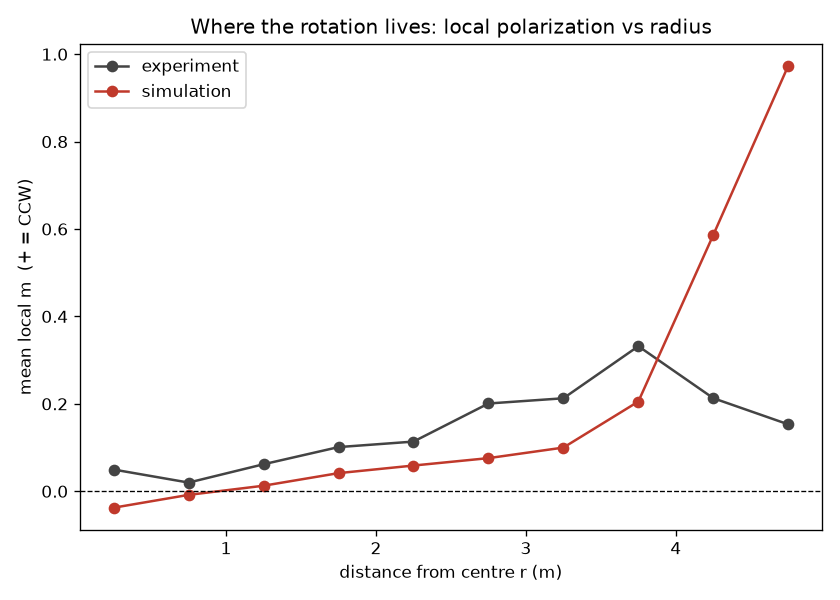
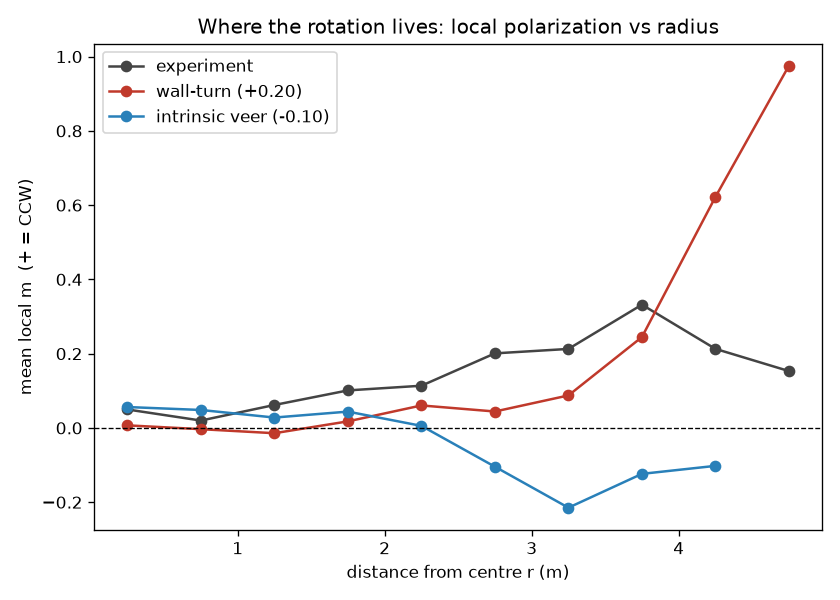
intrinsic veer model: trying to reproduce the field, and why a minimal model can't
Add a second minimal mechanism — a constant free-space left veer
(config.free_curvature, applied every step) with symmetric walls — and compare
its spatial field to the wall-turn model and the experiment.

- config/roaming/experiment: free_curvature knob; _make_roamer picks the mode
- analysis: radial_profile_plot and field_comparison_plot take N labelled panels
- validate_against_data renders experiment vs wall-turn vs intrinsic (field map +
  radial profile); README gets the per-ring tables and the three-way reading

Finding: neither minimal model reproduces the experiment's coherent, disk-filling
CCW. Wall-turn matches M̄ but is a rim spike; intrinsic veer spreads into the
interior but comes out CW (M̄ approx -0.10) — in open space a left veer is CCW
(tested: lone walker, large arena, m>0), but confinement lets the inward wall
response flip the sign. The net sign is set by veer x wall, not the veer alone.
Consistent with the paper: the effect rests on a genuine individual bias a
one-knob model does not casually recover.

diff --git a/scripts/validate_against_data.py b/scripts/validate_against_data.py
@@ -66,14 +66,15 @@ def experimental_field(speed_eps: float) -> list[tuple[float, float, float]]:
     return samples
 
 
-def simulated_field(biased_fraction: float, seeds: range) -> list[tuple[float, float, float]]:
+def model_field(cfg: ArenaConfig, seeds: range) -> tuple[list[tuple[float, float, float]], float]:
+    """Pooled (x, y, m_i) field samples and M̄ for a given model config."""
     samples: list[tuple[float, float, float]] = []
+    mbars: list[float] = []
     for s in seeds:
-        res = run_arena(
-            s, ArenaConfig(n_agents=24, biased_fraction=biased_fraction), record_field=True
-        )
+        res = run_arena(s, cfg, record_field=True)
         samples.extend(res.field_samples)
-    return samples
+        mbars.append(res.m_bar)
+    return samples, sum(mbars) / len(mbars)
 
 
 def main() -> None:
@@ -101,12 +102,27 @@ def main() -> None:
     plt.close(fig)
     print(f"wrote {OUT / 'experiment_vs_sim.png'}")
 
+    # Spatial structure: experiment vs the two minimal models.
+    # - wall-turn: a share of agents turn left at the wall (matches M̄ by construction).
+    # - intrinsic: every agent has a faithful constant left veer (the paper's left bias),
+    #   walls symmetric. We report what it actually does, not a tuned match.
     exp_field = experimental_field(ArenaConfig().speed_eps)
-    sim_field = simulated_field(biased_fraction=frac, seeds=range(10))
-    field_comparison_plot(
-        exp_field, sim_field, radius=5.0, out_path=OUT / "polarization_field.png", min_count=20
+    wall_field, wall_mbar = model_field(
+        ArenaConfig(n_agents=24, biased_fraction=0.35), seeds=range(10)
     )
-    radial_profile_plot(exp_field, sim_field, radius=5.0, out_path=OUT / "radial_profile.png")
+    intr_field, intr_mbar = model_field(
+        ArenaConfig(n_agents=24, free_curvature=0.10), seeds=range(10)
+    )
+    print(f"wall-turn model M̄ (35% left-turners) = {wall_mbar:+.3f}")
+    print(f"intrinsic-veer model M̄ (left curvature 0.10 rad/step) = {intr_mbar:+.3f}")
+
+    panels = [
+        ("experiment", exp_field),
+        (f"wall-turn ({wall_mbar:+.2f})", wall_field),
+        (f"intrinsic veer ({intr_mbar:+.2f})", intr_field),
+    ]
+    field_comparison_plot(panels, radius=5.0, out_path=OUT / "polarization_field.png", min_count=20)
+    radial_profile_plot(panels, radius=5.0, out_path=OUT / "radial_profile.png")
     print(f"wrote {OUT / 'polarization_field.png'} and {OUT / 'radial_profile.png'}")
 
 

diff --git a/src/clockwise/analysis.py b/src/clockwise/analysis.py
@@ -149,24 +149,23 @@ def radial_profile(
     return centres, mean, count
 
 
+_PROFILE_COLOURS = ["#444", "#c0392b", "#2980b9", "#27ae60", "#8e44ad"]
+
+
 def radial_profile_plot(
-    exp_samples: list[tuple[float, float, float]],
-    sim_samples: list[tuple[float, float, float]],
+    panels: list[tuple[str, list[tuple[float, float, float]]]],
     radius: float,
     out_path: Path,
     bins: int = 10,
 ) -> Path:
-    """Overlay experiment vs simulation mean local m against distance from centre."""
+    """Overlay mean local m against distance from centre, one curve per (label, samples)."""
     import matplotlib
 
     matplotlib.use("Agg")
     import matplotlib.pyplot as plt
 
     fig, ax = plt.subplots(figsize=(7, 5))
-    for label, samples, colour in [
-        ("experiment", exp_samples, "#444"),
-        ("simulation", sim_samples, "#c0392b"),
-    ]:
+    for (label, samples), colour in zip(panels, _PROFILE_COLOURS, strict=False):
         centres, mean, _ = radial_profile(samples, radius, bins)
         ax.plot(centres, mean, "o-", color=colour, label=label)
     ax.axhline(0.0, color="k", lw=0.8, ls="--")
@@ -182,23 +181,23 @@ def radial_profile_plot(
 
 
 def field_comparison_plot(
-    exp_samples: list[tuple[float, float, float]],
-    sim_samples: list[tuple[float, float, float]],
+    panels: list[tuple[str, list[tuple[float, float, float]]]],
     radius: float,
     out_path: Path,
     bins: int = 24,
     vlim: float = 0.4,
     min_count: int = 5,
 ) -> Path:
-    """Side-by-side spatial polarization fields: experiment vs simulation."""
+    """Spatial polarization fields side by side, one panel per (label, samples)."""
     import matplotlib
 
     matplotlib.use("Agg")
     import matplotlib.pyplot as plt
     from matplotlib.patches import Circle
 
-    fig, axes = plt.subplots(1, 2, figsize=(11, 5.2))
-    panels = [("experiment", exp_samples), ("simulation", sim_samples)]
+    fig, axes = plt.subplots(1, len(panels), figsize=(5.5 * len(panels), 5.2))
+    if len(panels) == 1:
+        axes = [axes]
     im = None
     for ax, (label, samples) in zip(axes, panels, strict=True):
         grid, extent = spatial_field(samples, radius, bins, min_count)

diff --git a/src/clockwise/experiment.py b/src/clockwise/experiment.py
@@ -41,6 +41,16 @@ def _seed_positions(cfg: ArenaConfig, rng: random.Random) -> list[tuple[float, f
     return pts
 
 
+def _make_roamer(cfg: ArenaConfig, rng: random.Random) -> Roamer:
+    """One roamer. Intrinsic study (free_curvature > 0): every agent veers left in free space,
+    walls stay symmetric. Wall-turn study (free_curvature == 0): a `biased_fraction` share
+    turn left at the wall, the rest are symmetric."""
+    heading = rng.uniform(0, 2 * math.pi)
+    if cfg.free_curvature != 0.0:
+        return Roamer(heading=heading, biased=False, free_curvature=cfg.free_curvature)
+    return Roamer(heading=heading, biased=rng.random() < cfg.biased_fraction)
+
+
 def run_arena(
     seed: int,
     cfg: ArenaConfig | None = None,
@@ -69,10 +79,7 @@ def run_arena(
         )
         aid = sim.add_agent(params)
         agents.append(aid)
-        roamers[aid] = Roamer(
-            heading=rng.uniform(0, 2 * math.pi),
-            biased=rng.random() < cfg.biased_fraction,
-        )
+        roamers[aid] = _make_roamer(cfg, rng)
         prev[aid] = p
 
     n_steps = round(cfg.duration_s / cfg.dt)

diff --git a/src/clockwise/roaming.py b/src/clockwise/roaming.py
@@ -23,17 +23,25 @@ def clamp_inside(
 
 @dataclass
 class Roamer:
-    """Per-agent heading: unbiased wander, plus a wall response. A `biased` agent turns
-    LEFT when facing the wall (the individual bias); others turn symmetrically toward the
-    centre (the control behaviour)."""
+    """Per-agent heading: unbiased wander, an optional constant free-space curvature, and a
+    wall response. Two ways to inject the individual bias:
+
+    - `biased` (wall-turn study): turn LEFT only when facing the wall.
+    - `free_curvature` (intrinsic study): a constant leftward turn applied EVERY step, so the
+      agent veers continuously even far from any wall ("walking straight into circles").
+
+    A `biased`/curvature-free agent that is neither turns symmetrically toward the centre at
+    the wall — the control behaviour."""
 
     heading: float
     biased: bool = False
+    free_curvature: float = 0.0
 
     def update(
         self, pos: tuple[float, float], cfg: ArenaConfig, rng: random.Random
     ) -> float:
         h = self.heading + rng.gauss(0.0, cfg.wander_sigma)  # unbiased wander
+        h += self.free_curvature  # constant leftward veer (intrinsic bias; 0 in wall study)
         x, y = pos
         r = math.hypot(x, y)
         if r > cfg.radius - cfg.wall_margin and r > 0.0:

diff --git a/tests/test_experiment_smoke.py b/tests/test_experiment_smoke.py
@@ -27,3 +27,12 @@ def test_symmetric_control_has_no_net_rotation():
     cfg = _tiny(biased_fraction=0.0)
     mbars = [run_arena(seed=s, cfg=cfg).m_bar for s in range(6)]
     assert abs(sum(mbars) / len(mbars)) < 0.1
+
+
+def test_intrinsic_left_veer_is_ccw_in_open_space():
+    # Sign check, isolated from the wall: a lone agent in a large arena (wall never fires)
+    # with a constant LEFT veer rotates CCW (m_bar > 0). Confined runs invert this — the
+    # wall response, not the veer, sets the confined sign — which is the study's finding.
+    cfg = ArenaConfig(n_agents=1, radius=20.0, wander_sigma=0.0, warmup_s=5.0,
+                      duration_s=40.0, free_curvature=0.10)
+    assert run_arena(seed=0, cfg=cfg).m_bar > 0.0

diff --git a/tests/test_roaming.py b/tests/test_roaming.py
@@ -50,6 +50,14 @@ def test_control_agent_turns_toward_centre_at_the_wall():
     assert r.heading > math.pi / 2  # moved toward inward (pi)
 
 
+def test_free_curvature_veers_left_every_step():
+    # the intrinsic bias is a constant leftward (CCW) heading change applied even at the centre
+    cfg = ArenaConfig(wander_sigma=0.0, free_curvature=0.1)
+    r = Roamer(heading=0.0, free_curvature=cfg.free_curvature)
+    r.update(pos=(0.0, 0.0), cfg=cfg, rng=random.Random(0))  # at centre: no wall term
+    assert math.isclose(r.heading, 0.1, abs_tol=1e-9)
+
+
 def test_control_wall_turn_is_left_right_symmetric():
     # the symmetric control must have no left/right preference: an agent and its mirror
     # image across the x-axis receive equal-and-opposite turns. (Guards the M̄≈0 control.)

diff --git a/tests/test_analysis.py b/tests/test_analysis.py
@@ -65,6 +65,7 @@ def test_field_and_radial_plots_write_png(tmp_path):
     from clockwise.analysis import field_comparison_plot, radial_profile_plot
     exp = [(1.0, 0.0, 0.1), (0.0, 3.0, 0.3), (-2.0, 1.0, 0.2)]
     sim = [(1.0, 0.0, 0.05), (0.0, 4.0, 0.6), (-2.0, 1.0, 0.1)]
-    f = field_comparison_plot(exp, sim, radius=5.0, out_path=tmp_path / "field.png")
-    r = radial_profile_plot(exp, sim, radius=5.0, out_path=tmp_path / "radial.png")
+    panels = [("experiment", exp), ("wall-turn", sim), ("intrinsic", sim)]
+    f = field_comparison_plot(panels, radius=5.0, out_path=tmp_path / "field.png")
+    r = radial_profile_plot(panels, radius=5.0, out_path=tmp_path / "radial.png")
     assert f.exists() and r.exists()

diff --git a/src/clockwise/config.py b/src/clockwise/config.py
@@ -19,6 +19,10 @@ class ArenaConfig:
                                   # The rest use the symmetric inward turn.
     left_wall_bias: float = 0.2   # rad, per-step leftward (CCW) turn a biased agent applies
                                   # when facing the wall (turn strength; effect saturates).
+    free_curvature: float = 0.0   # rad/step constant leftward (CCW) curvature applied EVERY
+                                  # step (the intrinsic, free-space bias). 0 = off (wall-turn
+                                  # study). When > 0 the wall response stays symmetric, so the
+                                  # only chirality is this curvature.
     carrot_distance: float = 1.0  # m, how far ahead the steering target sits
     carrot_margin: float = 0.3    # m, keep the carrot at least this far inside the rim
     wall_margin: float = 1.0      # m from the rim where the wall response starts

diff --git a/README.md b/README.md
@@ -36,10 +36,12 @@ built-in turning bias**. That makes the simulator a clean testbed:
   (clamped to stay inside the disk).
 - **Interactions:** collision avoidance is handled by the **Anticipation Velocity Model (AVM)**,
   JuPedSim's richest lateral-avoidance model — so "no CCW from symmetric avoidance" is a strong result.
-- **Where the bias lives:** the paper proposes the CCW rotation comes from *turning left when facing a
-  wall*. A calibration spike confirmed this: a symmetric wall-turn gives `M̄ ≈ 0`, while a leftward
-  wall-turn gives a strong `M̄ > 0`. So the individual bias is a single knob in the **wall response**,
-  cleanly separated from the collective (AVM) avoidance.
+- **Where the bias lives:** we try the individual bias in two places. (a) **Wall response** — turn left
+  only when facing a wall; a calibration spike confirmed a symmetric wall-turn gives `M̄ ≈ 0` while a
+  leftward one gives a strong `M̄ > 0`, so this is a single knob (`biased_fraction`) cleanly separated
+  from the collective (AVM) avoidance. (b) **Free-space veer** — a constant leftward curvature applied
+  every step (`free_curvature`), the paper's "intrinsic" reading. We compare both against the
+  experiment's spatial field below; they fail in different, informative ways.
 - **Metric:** `M(t)` exactly as in the paper (azimuthal projection of each agent's velocity, averaged),
   with `M̄` the time average after a warm-up.
 - **Conditions:** control (symmetric) vs biased (turn-left-at-wall), at crowd sizes `N ∈ {16, 24, 32}`,
@@ -107,39 +109,63 @@ the full `M` *distribution* — not just the mean — closely coincides with the
 
 Reproduce with `python scripts/validate_against_data.py` (needs `materials/ExperimentalData/` unzipped).
 
-### Where the rotation lives — the limit of our shortcut
+### Where the rotation lives — and two ways a minimal model fails
 
-Matching the mean `M̄` is not the same as matching the mechanism. Their analysis code lets us go
-further and ask *where* in the arena the rotation happens, by mapping the mean local `m` over space
-(the paper's Fig 3 idea). Here the experiment and our model part ways:
+Matching the mean `M̄` is not the same as matching the mechanism. Their analysis code lets us go further
+and ask *where* in the arena the rotation happens, by mapping the mean local `m` over space (the paper's
+Fig 3 idea). We compare the experiment with **two** minimal models:
 
-![spatial polarization field: experiment vs simulation](docs/results/polarization_field.png)
+- **wall-turn** — a share of agents turn left only when facing the wall (the model calibrated above; `M̄`
+  matches the experiment by construction).
+- **intrinsic veer** — every agent has a faithful, constant **left** veer applied at every step (the
+  "individual locomotor bias" the paper proposes; ref. 37, *walking straight into circles*), with a
+  symmetric wall response. We report what this actually does, not a tuned match.
 
-(Both panels share a colour scale clipped at ±0.4 for visibility; the simulation rim actually reaches
-`m ≈ 0.97`, far past the clip, so the two blue rings are not as similar as they look — see the radial
-profile below.)
+![spatial polarization field: experiment vs the two models](docs/results/polarization_field.png)
 
-Both fields are near zero at the very centre. The difference is in *how the rotation is distributed*. In
-the experiment the counterclockwise motion builds up through the **interior**, peaks in the outer-middle
-of the disk, and then **eases off again at the wall**. In our simulation the interior stays near zero
-and the rotation is a thin **spike at the rim**. The radial profile makes this quantitative:
+(The colour scale is clipped at ±0.4 for visibility; the wall-turn rim actually reaches `m ≈ 0.98`, far
+past the clip — see the profile below.)
 
 ![mean local m vs distance from centre](docs/results/radial_profile.png)
 
-| distance from centre | experiment | simulation |
-|---|---|---|
-| centre (r ≈ 0.25 m) | +0.05 | −0.04 |
-| mid (r ≈ 2.25 m)    | +0.11 | +0.06 |
-| outer-middle (r ≈ 3.75 m) | +0.33 | +0.21 |
-| at the wall (r ≈ 4.75 m)  | +0.15 | +0.97 |
+Mean local `m` per ring (distance `r` from the centre, in metres):
 
-The two trends are opposite where it matters: the experiment's `m` is already clearly positive across
-the bulk and then *drops* near the wall, while ours is near zero across the bulk and then *spikes* at
-the wall. This is exactly what our mechanism should produce — the bias only fires when an agent faces
-the wall, so only agents near the wall turn — and it is what the paper argues against: they find the
-bias is **intrinsic to each walker**, present even away from any boundary. So our wall-turn model
-reproduces the *amount* of rotation (`M̄`) but not its *spatial structure*. Matching a single number is
-not the same as matching the mechanism, and the gap points back at the paper's central claim.
+| r (m) | experiment | wall-turn | intrinsic veer |
+|------:|:----------:|:---------:|:--------------:|
+| 0.25  | +0.05 | +0.01 | +0.06 |
+| 0.75  | +0.02 | −0.00 | +0.05 |
+| 1.25  | +0.06 | −0.01 | +0.03 |
+| 1.75  | +0.10 | +0.02 | +0.04 |
+| 2.25  | +0.11 | +0.06 | +0.01 |
+| 2.75  | +0.20 | +0.04 | −0.10 |
+| 3.25  | +0.21 | +0.09 | −0.21 |
+| 3.75  | +0.33 | +0.24 | −0.12 |
+| 4.25  | +0.21 | +0.62 | −0.10 |
+| 4.75  | +0.15 | +0.98 |  n/a  |
+| **M̄** | **+0.185** | **+0.203** | **−0.097** |
+
+(The intrinsic model's outermost ring is empty — the symmetric wall response keeps agents off the very
+rim.)
+
+The experiment shows a **coherent counterclockwise rotation that fills the disk**: positive at every
+radius, building from a faint core to a peak in the outer-middle (`r ≈ 3.75 m`), then easing at the very
+wall. Neither minimal model reproduces this, and they fail in *different* ways:
+
+- **wall-turn** gets the *amount* of rotation right but puts it in the wrong place — a thin **edge spike**
+  at the rim, with a near-still interior. The bias only fires at the wall, so only agents at the wall
+  rotate.
+- **intrinsic veer** concentrates its rotation in the **outer-middle** (around `r ≈ 3.25 m`) rather than
+  a thin rim spike — closer to *where* the experiment peaks — but it comes out **clockwise**, the wrong
+  sign, with `M̄ ≈ −0.10`: a faint counterclockwise core wrapped in a clockwise outer-middle band. In
+  open space a left veer does rotate counterclockwise (we check this directly: a lone walker in a large
+  arena gives `m > 0`). Once confined, our inward wall response flips it — the *net sign is set by how
+  the veer meets the wall*, not by the veer alone — so this minimal intrinsic model is not robust either.
+
+In short: the experiment's coherent, disk-filling counterclockwise rotation does not fall out of either
+shortcut — a wall-only turn, or an independent constant veer under realistic heading noise. That is
+consistent with the paper's claim that the effect rests on a genuine **individual** locomotor bias whose
+collective expression a one-knob model does not casually recover. Reproducing the field, not just the
+mean, would need more than either minimal mechanism offers.
 
 ## Running it
 